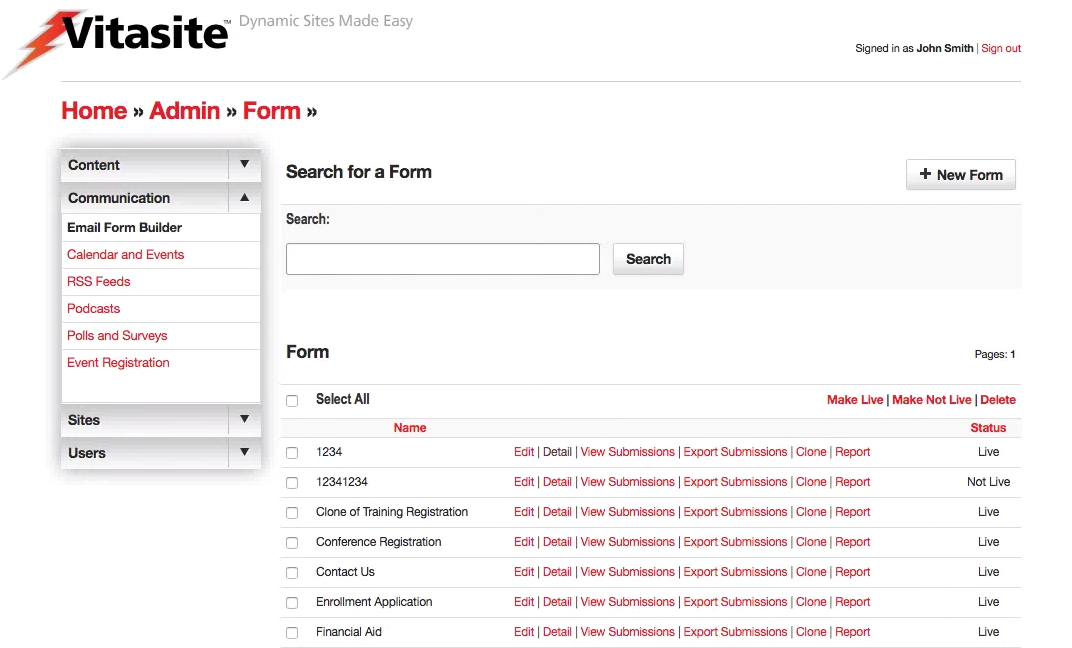
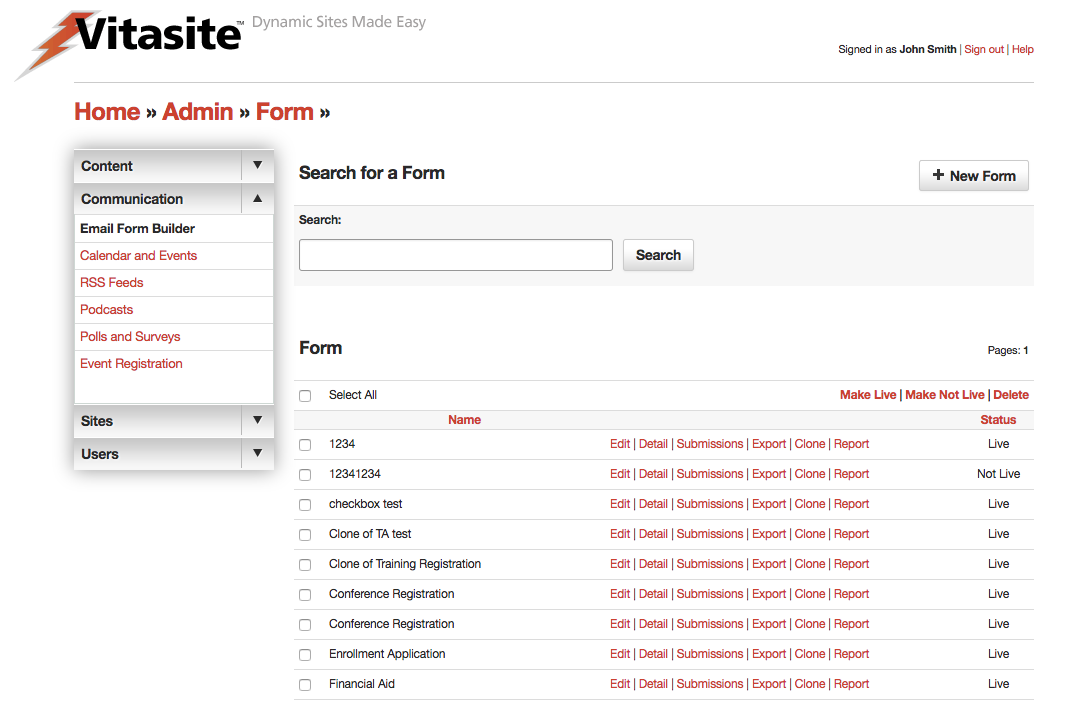
Add more information on forms including new options available to forms.

diff --git a/docs/form.md b/docs/form.md
@@ -17,8 +17,8 @@ Unlike other tools that simply have "Edit" and "Delete" commands for each item, 
 
 * **Edit** Similar to other tools, this allows editing of the form settings. However, the actual form is built within the *detail* section. Clicking save from this screen will automatically take you to the form field editor. These settings are described in [Step 1](#step-one-form-settings). As soon as you complete your edits, the form will be updated on all the pages of your site on which it is used.
 * **Detail** Allows the administrator to edit the form fields. Defining fields is described in [Step 2](#step-two-defining-fields). As soon as you complete your edits, the form will be updated on all the pages of your site on which it is used.
-* **View Submissions** This tool allows the administrator to view and manage all submissions to the form.
-* **Export Submissions** This tool exports all submissions to the form in a CSV file. This file type can be opened in most spreadsheet or database applications.
+* **Submissions** This tool allows the administrator to view and manage all submissions to the form.
+* **Export** This tool exports all submissions to the form in a CSV file. This file type can be opened in most spreadsheet or database applications.
 * **Clone** Cloning a form allows you to make and exact duplicate of the form without any submissions. Useful for situations where you might want to separate out past submissions, in the case of a yearly registration form. The newly created form will appear in your list as "Clone of X" where X is the name of the cloned form. Note: the original form name may be truncated due to length restrictions.
 * **Report** A powerful reporting tool, where the administrator can create on-demand reporting based on a number of factors as well as setting up reports to be emailed on a regular basis.
 
@@ -28,13 +28,30 @@ To create a new Email Form, click the “New Form” link at the top of the page
 
 ### Step One: Form Settings
 
-The first page allows you to set the following properties of the Email Form:
+The first page allows you to set the following properties of the Email Form (see Figure 2):
 
-* **Form Title** This field allows you to set a title for identifying the form. This title is used in the administrative tools; it appears above the form on the web-site; and it is used in the subject line of the email sent when a user submits the form.
-* **Email Address form will be set to** This field allows you to set the email address the form results should be sent to. When a user clicks the “submit” button, the data they entered on the form will be included in the body of the email.
-* **Live** This checkbox determines whether this email form can be seen by your site visitors. If the email form is not live (the box is not checked), then visitors to your site will not see this email form. Once you make the email form live (by checking the box and saving your changes), VitaSite™ will make it available for your web site visitors to see. This functionality allows you to work with an email form in the administrative tools until you get it finished, without making it available on the site until it is ready.
-* **Form Description or Instructions** This field allows you to provide information about the form, or instructions on how to use the form, to your site visitors.
-* **Text to Display after Submission** This field allows you to provide a submission confirmation message to your site visitors. This text will be displayed after the user clicks the “Submit” button on your form. When you have completed these fields, click the “Save & Continue” button to proceed to the next page. This page allows you to setup the actual fields that appear on the form.
+![Figure 2.](img/form_figure_2.png)
+*Figure 2*
+
+* **Form Title** – This field allows you to set a title for identifying the form. This title is used in the administrative tools; it appears above the form on the web-site; and it is used in the subject line of the email sent when a user submits the form.
+* **Email Address form will be set to** – This field allows you to set the email address the form results should be sent to. When a user clicks the “submit” button, the data they entered on the form will be included in the body of the email.
+* **Live** – This checkbox determines whether this email form can be seen by your site visitors. If the email form is not live (the box is not checked), then visitors to your site will not see this email form. Once you make the email form live (by checking the box and saving your changes), VitaSite™ will make it available for your web site visitors to see. This functionality allows you to work with an email form in the administrative tools until you get it finished, without making it available on the site until it is ready.
+* [**Private**](/#private) – This check box is only available in a multiple sites installation of VitaSite. If this box is checked, the selected form item can only be used on the site in which it is created. If this box is unchecked, it will be made available for use on other sites in the installation.
+* **Start Date** – This is an optional field used to determine when a form should begin taking submissions. Leave this field blank to begin taking submissions immediately.
+* **End Date** – This is an optional field used to determine when a form should stop taking submissions. Leave this field blank to take submissions indefinitely.
+* **Description** – This field allows you to provide information about the form, or instructions on how to use the form, to your site visitors. This field honors whitespace returns. You may also use HTML in this field. The description is displayed between the form title and the question fields.
+* **Text to Display after Submission** – This field allows you to provide a submission confirmation message to your site visitors. This text will be displayed after the user clicks the “Submit” button on your form.
+* **Custom label for submit button** - Use this field to change the "Submit" button text to a custom value. When blank, the default of "Submit Form" will be shown.
+* **Use CAPTCHA** - Show the challenge question at the end of the form to deter non-human submissions. It is suggested to use the CAPTCHA for any form that is publicly accessible to deter false submissions.
+* **Total Entries Allowed (0 for unlimited)** - Restrict the amount of submissions that a form can accept. When the limit is reached, the message "We are sorry, but this form has reached capacity and is no longer accepting submissions." will be displayed.
+* **Do not deliver via email** - When you enable this option, the Admin Email address will not be notified when a user submits the form. **NOTE:** at least one email address is still required in the "Email" field above. The first field on the form will be used as the reply email address.
+* **Send reply** - When enabled, allows an automatic email to be sent back to the submitter. **NOTE:** A Email Address field or a text field with "Email Address" as the description must be used to enable this feature.
+* **Email From** - The email address that the automatic email will come "from."
+* **Email Subject** - The email subject of the automatic email.
+* **Reply Attachment** - This field is optional. It allows you to attach an file to the email sent back to the submitter. This file must be uploaded to your media files first. **NOTE:** Many ISPs and Email Providers flag emails with large attachments as SPAM. Please consider using a link to download your file rather than attaching it.
+* **Email Body** - The body of your message. This field accepts HTML.
+
+When you have completed these fields, click the **Save & Continue** button to proceed to the next page. This page allows you to setup the actual fields that appear on the form.
 
 ### Step Two: Defining Fields
 
@@ -42,12 +59,23 @@ When you first reach the field definition page, you will see a set of instructio
 
 Using the tools on this page, you can create any of the following types of fields:
 
-* **Text Box** This field type allows you to provide a single- or multiple-line text area. This type is used to collect data such as name, address, or phone number.
-* **Text Area** Text area fields allow you provide the user a multi-line text field for longer entry.
-* **Check Box** This type allows you to provide a checkbox that can be used to collect yes/no type responses.
-* **Radio Button** This type allows you to provide a series or mutually exclusive options for a user to select from.
-* **Select List** This type allows you to provide a drop down menu of options for a user to select from.
-* **Plain Text** This type allows you to insert descriptive text or instructions in the middle of your form. It is not used to collect data.
+#### Standard Field Types
+
+* **Textbox** - This field type allows you to provide a single-line text area. This type is used to collect data such as name, address, or phone number.
+* **Textarea** - Text area fields allow you provide the user a multi-line text field for longer entry.
+* **Checkbox** - This type allows you to provide a checkbox that can be used to collect yes/no type responses.
+* **Radio Buttons** - This type allows you to provide a series or mutually exclusive options for a user to select from. A comma-separated list is used to create each option in the question. You may also style the field to show the options horizontally or vertically.
+* **Drop Down** - This type allows you to provide a drop down menu of options for a user to select from. A comma-separated list is used to create each option in the question.
+* **Plain Text** - This type allows you to insert descriptive text or instructions in the middle of your form. It is not used to collect data.
+* **File Upload** - Allows a user to submit a single file along with the form. **NOTE:** Only one file upload field may be used on a single form, only one file may be uploaded at a time, and be cautious when opening submitted files as they are not checked for viruses.
+
+#### Special Field Types
+
+* **Name Fields** - Allows a user to submit their name on the form. The standard option captures the First and Last, while the expanded option additionally captures the salutation and suffix
+* **Address Fields** - Allows the user to submit their mailing address. There are no options on this field.
+* **Email Field** - Allows the user to submit an email address. This field can be used to verify the email address is entered the same way twice, by using the confirmation. Also "requiring" this field will require a valid email address to be submitted.
+* **Sensitive Data Field** - This field encrypts the data submitted on this field. It can only be viewed online and will not be exported or emailed. If the form contains a sensitive data field, the admin will not receive the form submission data via email, but will be provided a link to view it online.
+* **Date Field** - The date field allows the user to submit either a date, time or date and time.
 
 You can make any form field a required field by putting “\_req” at the end of the field description. For example, to make the text box for email address a required field, change the description to “Email Address\_req” in the form editor. The “\_req” part will not be displayed to the users of your form. Instead, they will see an asterisk,
 indicating that a field is required.
@@ -62,8 +90,17 @@ When you have created a field for your form, click the “add” button to place
 
 Your work on the field definition page is saved as you make changes. Once you have completed your work on a form, you can go to another administrative page, or log out of the system.
 
-To edit an existing form, click on the “edit” link next to the form name. The process for editing your form is then the same as described above for creating a form.
+To edit an existing form, click on the “edit” link next to the form name to edit the form properties or "detail" to edit the form questions. The process for editing your form is then the same as described above for creating a form.
+
+You may also preview your work at any time by choose the link to "See what your form will look like..."
+
+You can link directly to your form by using the "preview" URL above or by [adding your form to a page](/page/#edit).
 
 <!--## Form Reports-->
 
+*[CAPTCHA]: Completely Automated Public Turing test to tell Computers and Humans Apart
 *[CSV]: Comma-separated values
+*[HTML]: Hypertext Markup Language
+*[ISPs]: Internet Service Providers
+*[SPAM]: A form of junk or unsolicited email.
+*[URL]: Universal Resource Locator
